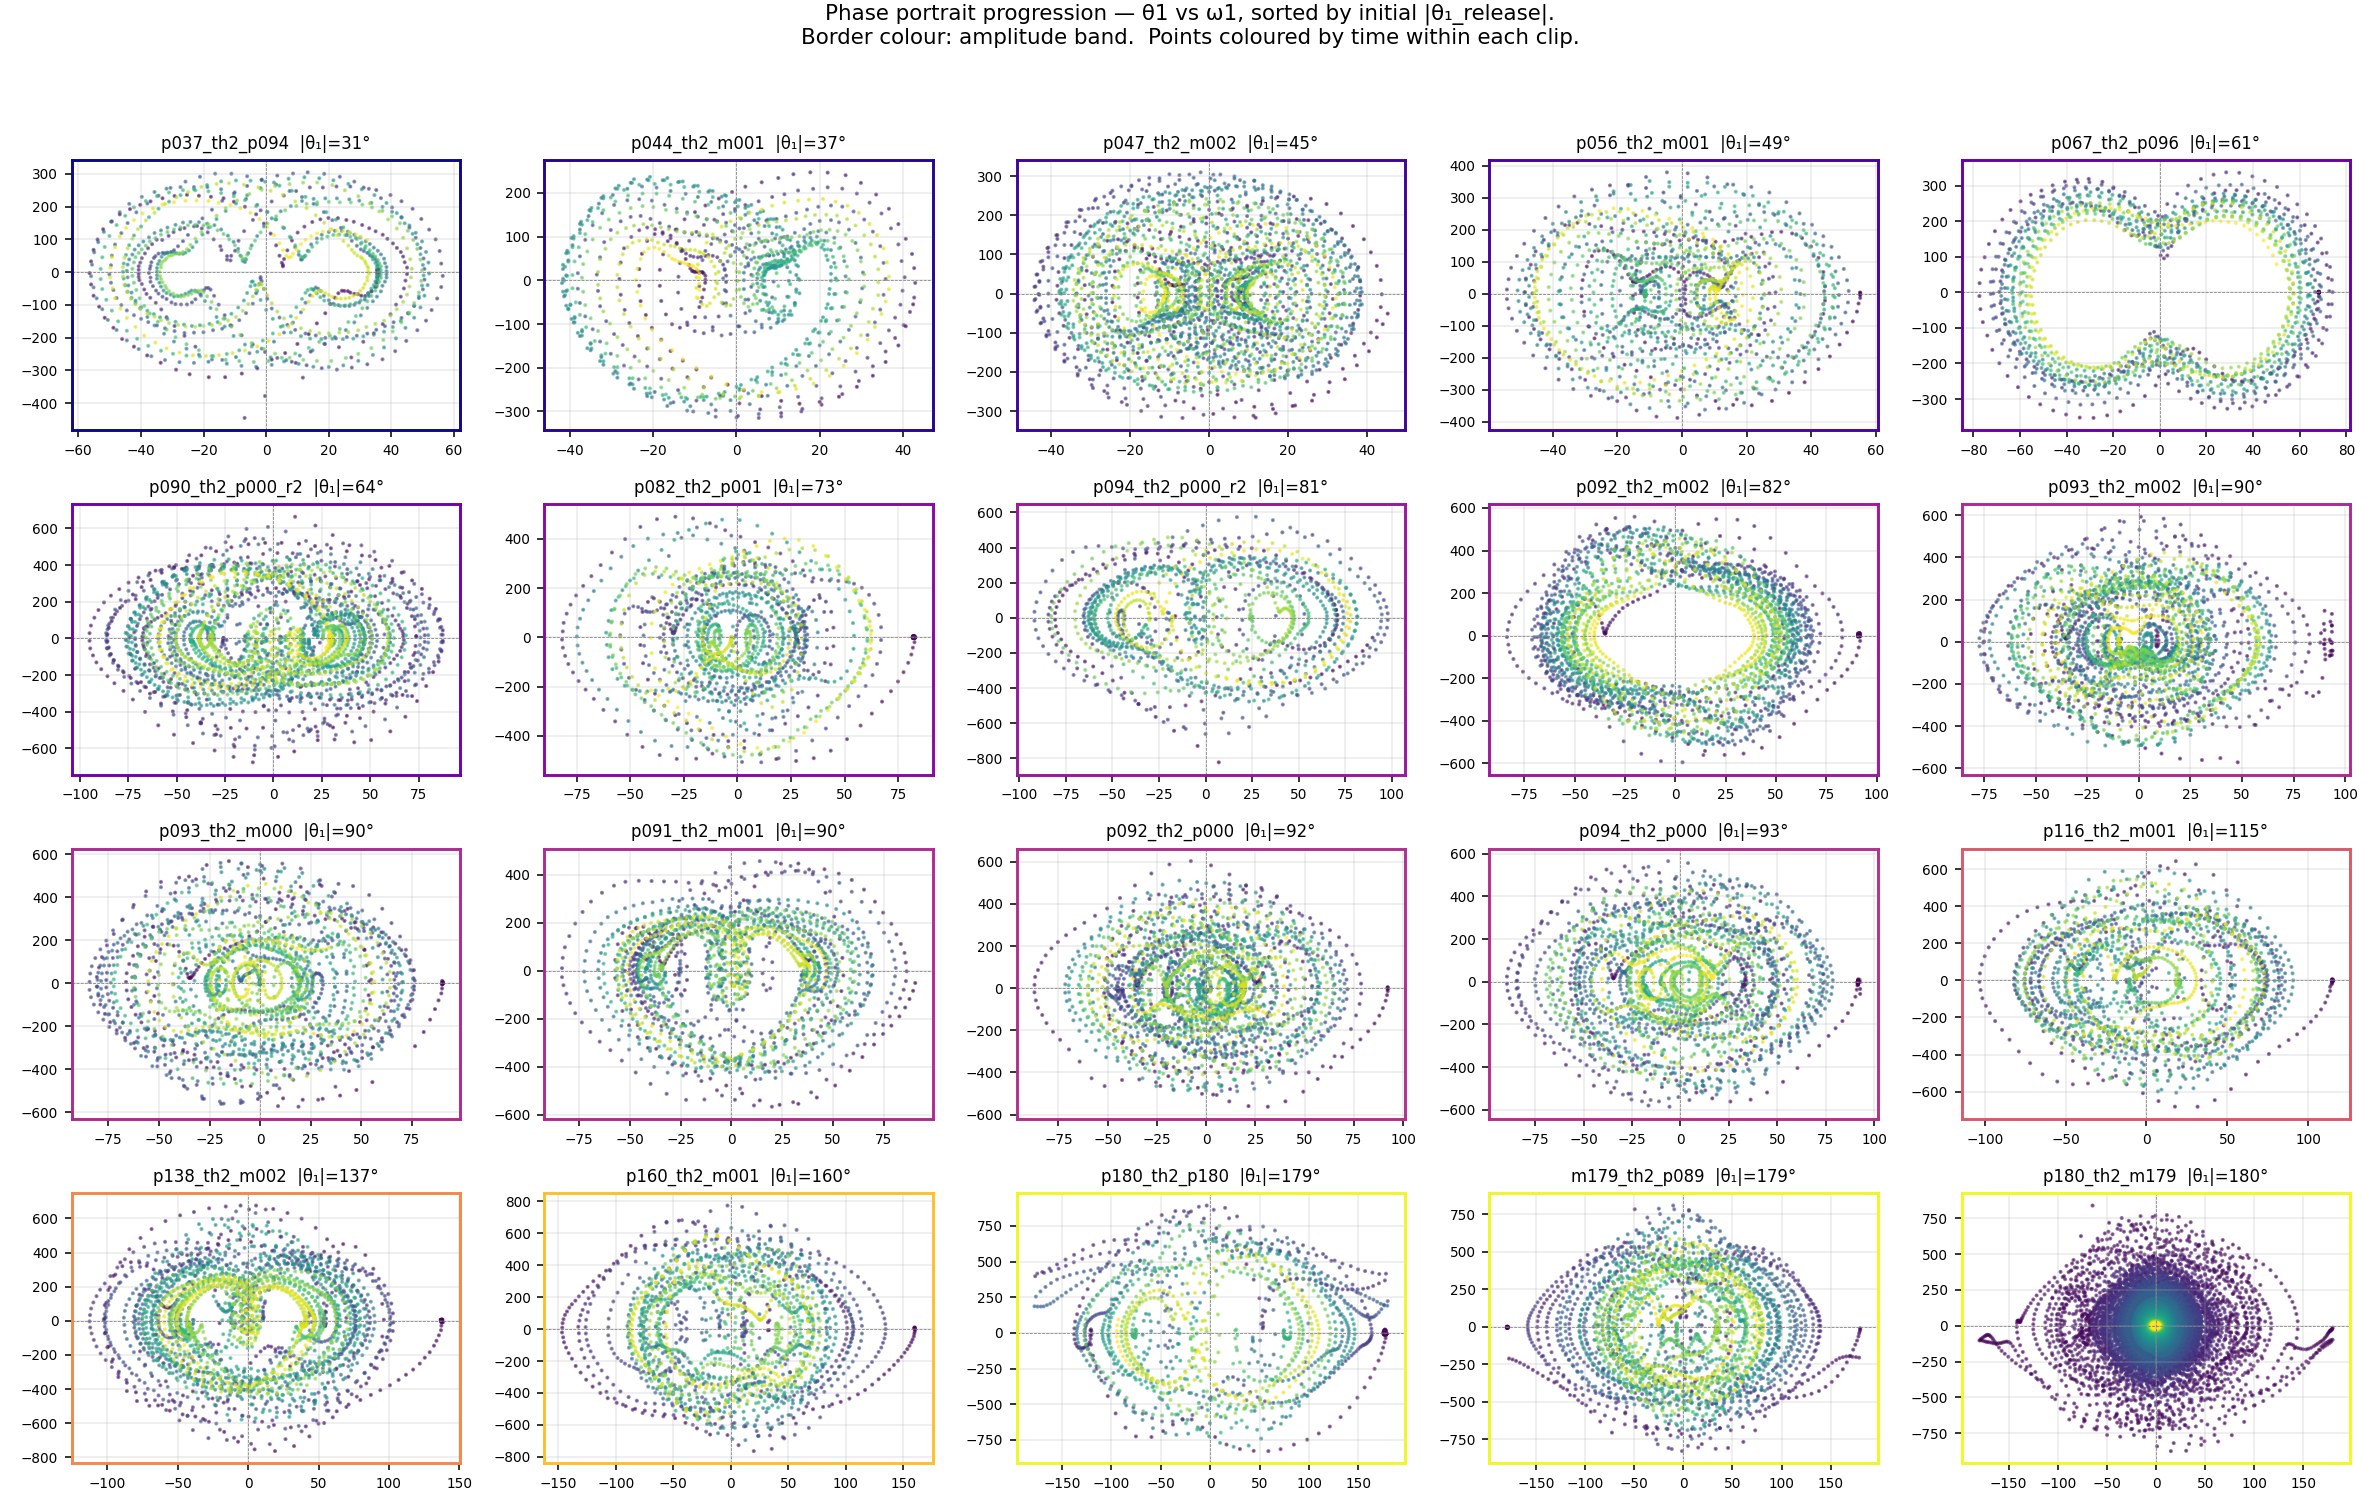
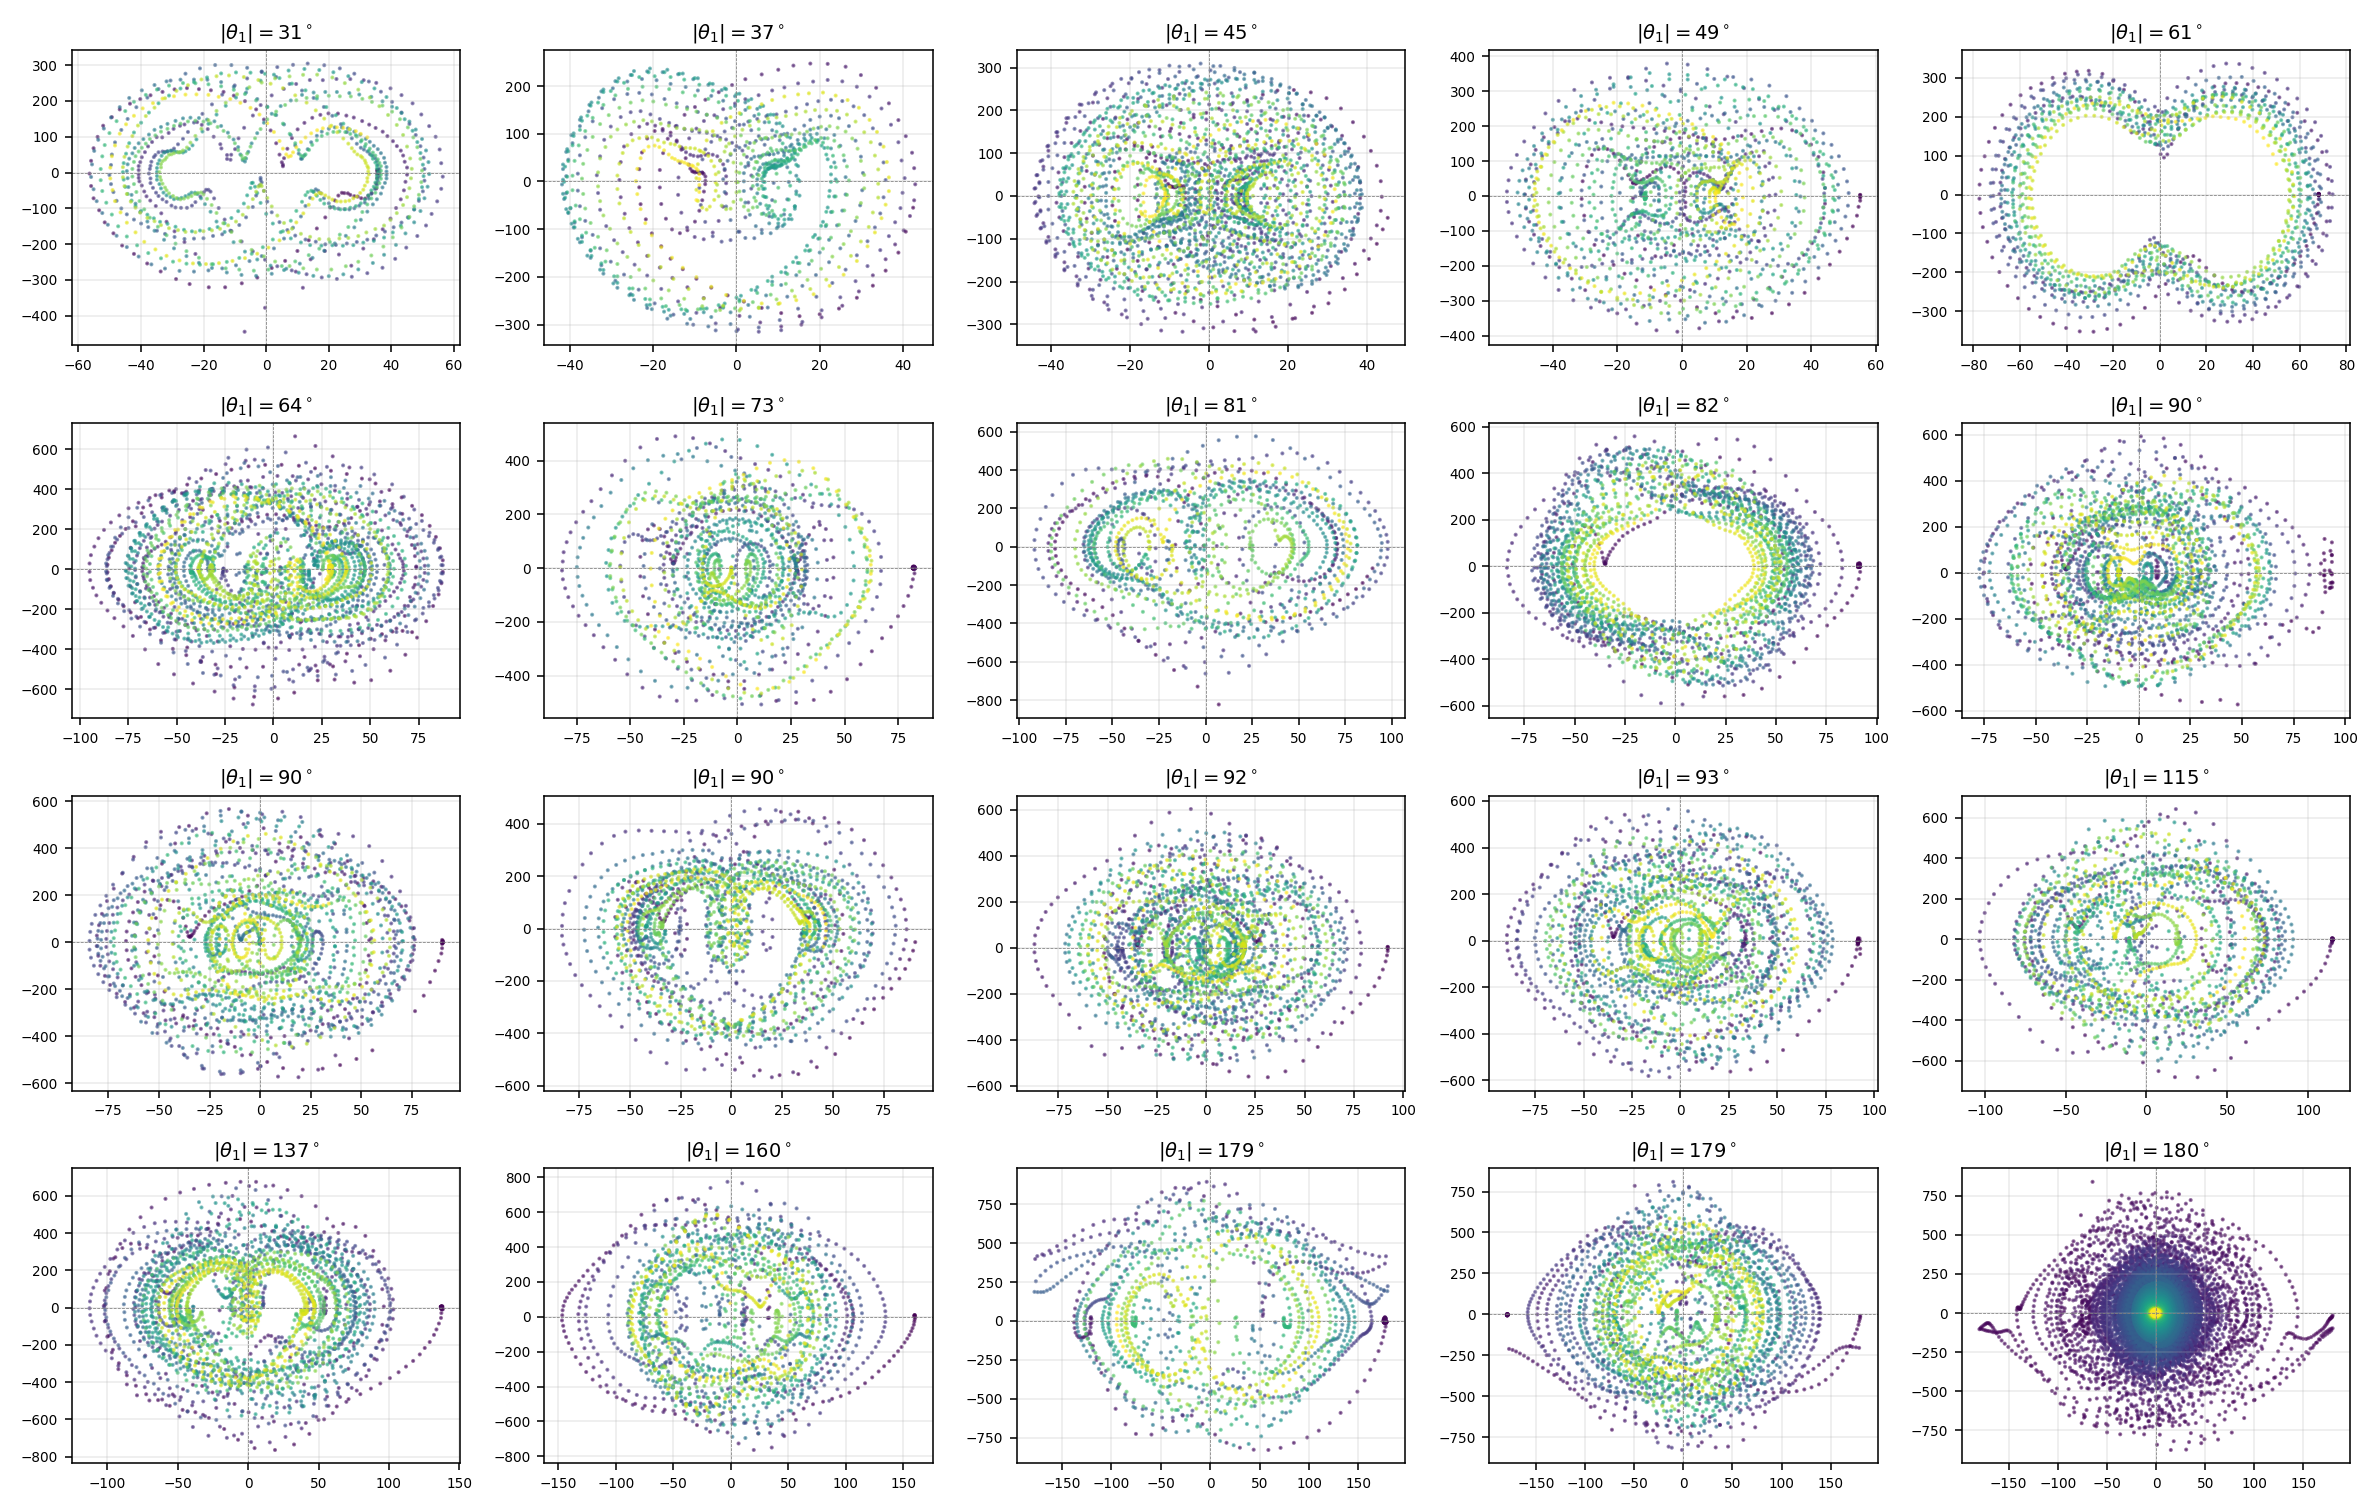
Publication polish: drop suptitles, compact panel titles, match spectrum axes, drop borders, add λ corner annotations
Applies the 8-item polish pass across all 5 focused deliverables +
portrait_progression cleanup:

  1. Drop verbose suptitles from phase_portrait_regimes,
     poincare_regimes, lyapunov_focused, chaos_vs_regular,
     portrait_progression (user will write captions externally)
  2. Compact per-panel titles to one line:
        "Regular  ·  θ₁(0)=37°"           (phase portraits)
        "Regular  ·  θ₁(0)=37°  ·  N=13"  (Poincaré)
  3. Match bottom-row x AND y limits on chaos_vs_regular spectra
     so broadband-vs-sharp-peaks is directly comparable
  4. Remove colored amplitude-band borders from portrait_progression
     panels (already sorted by amplitude, borders were redundant)
  5. Add λ₁ annotation in upper-right corner of each phase-portrait
     and Poincaré ladder panel (boxed monospace), frees title
  6. Standardize on viridis throughout (lyapunov_focused right
     panel was cividis; switched to viridis)
  7. Trim verbose subtitles on lyapunov_focused panels
  8. tight_layout consistently applied

Plus chaos_vs_regular trimmed to t<55s for the chaotic panel
(the actively-chaotic window before friction-driven decay).

All 7 affected figures regenerated; auto-mirror picks them up
in measurements/ready/.

Changed region(s): [[0.0, 0.0, 0.995, 0.9636], [0.5908, 0.6839, 0.6218, 0.7149]]

diff --git a/scripts/analysis/chaos_vs_regular.py b/scripts/analysis/chaos_vs_regular.py
@@ -68,11 +68,16 @@ def load_one(stem):
     }
 
 
-def plot_trace(ax, d, label, t_range=None):
+def plot_trace(ax, d, label, t_max=None):
     topo = d["topo"]
     t  = topo["time_s"] - topo["time_s"][0]
     th = topo["theta2_abs"]
     er = topo["E_ratio_trace"]
+
+    # Truncate to actively-chaotic window if requested
+    if t_max is not None:
+        m = t <= t_max
+        t, th, er = t[m], th[m], er[m]
 
     # Sub-sample for plotting speed if very long
     if len(t) > 8000:
@@ -80,20 +85,12 @@ def plot_trace(ax, d, label, t_range=None):
         t, th, er = t[::stride], th[::stride], er[::stride]
 
     norm = Normalize(vmin=0, vmax=max(1.1, float(np.nanmax(er))))
-    sc = ax.scatter(t, th, c=er, cmap="viridis", norm=norm, s=1.3,
-                     alpha=0.75, edgecolor="none")
-    ax.axhline(+90,  color="#d4724b", lw=0.8, ls="--", alpha=0.7,
-                label=r"$\pm 90^\circ$ inversion")
-    ax.axhline(-90,  color="#d4724b", lw=0.8, ls="--", alpha=0.7)
-    ax.axhline(+180, color="#a02938", lw=0.8, ls="--", alpha=0.7,
-                label=r"$\pm 180^\circ$ fully inverted")
-    ax.axhline(-180, color="#a02938", lw=0.8, ls="--", alpha=0.7)
+    sc = ax.scatter(t, th, c=er, cmap="viridis", norm=norm, s=1.6,
+                     alpha=0.8, edgecolor="none")
     ax.set_xlabel("time from release (s)")
     ax.set_ylabel(r"$\theta_2^{\rm abs}$ (deg)")
     ax.set_title(label, fontsize=11)
     ax.grid(alpha=0.25)
-    if t_range is not None:
-        ax.set_xlim(t_range)
     cb = plt.colorbar(sc, ax=ax, shrink=0.85)
     cb.set_label(r"$E / E_{\rm inversion}$", fontsize=9)
 
@@ -117,32 +114,34 @@ def main():
 
     fig, axes = plt.subplots(2, 2, figsize=(14, 9))
 
-    plot_trace(axes[0, 0], chaotic, "Chaotic   ·   $\\theta_1(0)=180°$  (long recording)")
-    plot_trace(axes[0, 1], regular, "Regular   ·   $\\theta_1(0)=37°$")
+    # Trim the chaotic θ_abs trace to the actively-chaotic window
+    # (after ~55s the long_recording is in low-amplitude bound oscillation).
+    plot_trace(axes[0, 0], chaotic,
+                "Chaotic   ·   $\\theta_1(0)=180°$",
+                t_max=55.0)
+    plot_trace(axes[0, 1], regular,
+                "Regular   ·   $\\theta_1(0)=37°$")
 
-    # Match θ y-axis on the top row so the inversion-threshold story is direct
+    # Match θ y-axis on the top row so the amplitude contrast is direct
     yhi = max(max(abs(y) for y in axes[0, 0].get_ylim()),
                 max(abs(y) for y in axes[0, 1].get_ylim()),
                 200)
     axes[0, 0].set_ylim(-yhi, yhi)
     axes[0, 1].set_ylim(-yhi, yhi)
-    axes[0, 0].legend(loc="lower right", fontsize=8)
 
     plot_spectrum(axes[1, 0], chaotic, "Chaotic — broadband")
     plot_spectrum(axes[1, 1], regular, "Regular — sharp peaks")
 
-    # Same y-range on spectra so power magnitudes are directly comparable
+    # Force matched x AND y limits on the spectra so the broadband-vs-sharp-peaks
+    # comparison is direct (both record lengths/sample counts produce different
+    # native frequency ranges otherwise).
+    xlim_lo = min(axes[1, 0].get_xlim()[0], axes[1, 1].get_xlim()[0])
+    xlim_hi = max(axes[1, 0].get_xlim()[1], axes[1, 1].get_xlim()[1])
     ylim_lo = min(axes[1, 0].get_ylim()[0], axes[1, 1].get_ylim()[0])
     ylim_hi = max(axes[1, 0].get_ylim()[1], axes[1, 1].get_ylim()[1])
-    axes[1, 0].set_ylim(ylim_lo, ylim_hi)
-    axes[1, 1].set_ylim(ylim_lo, ylim_hi)
+    axes[1, 0].set_xlim(xlim_lo, xlim_hi); axes[1, 0].set_ylim(ylim_lo, ylim_hi)
+    axes[1, 1].set_xlim(xlim_lo, xlim_hi); axes[1, 1].set_ylim(ylim_lo, ylim_hi)
 
-    fig.suptitle(
-        "Chaotic vs regular — same diagnostics, two regimes\n"
-        r"top: $\theta_2^{\rm abs}(t)$ ; bottom: power spectrum  ·  "
-        r"$K \rightarrow 1$ chaotic, $K \rightarrow 0$ regular",
-        fontsize=13, y=1.00,
-    )
     fig.tight_layout()
 
     out = aggregate_path("chaos_vs_regular.png")

diff --git a/scripts/analysis/portrait_progression.py b/scripts/analysis/portrait_progression.py
@@ -189,40 +189,23 @@ def main():
     fig, axes = plt.subplots(rows_n, cols,
                              figsize=(3.4 * cols, 2.7 * rows_n),
                              squeeze=False)
-    amps = np.array([r["amplitude"] for r in rows])
-    norm = Normalize(vmin=amps.min(), vmax=amps.max())
-    cmap = plt.cm.plasma
-
     for i, r in enumerate(rows):
         ax = axes[i // cols][i % cols]
-        c = cmap(norm(r["amplitude"]))
         # Colour by time so you see how the trajectory winds.
         ax.scatter(r["th"], r["om"],
                    c=r["t"], cmap="viridis",
                    s=1.2, alpha=0.55)
-        ax.set_title(f"{r['stem'].replace('th1_', '')}  "
-                     f"|θ₁|={r['amplitude']:.0f}°",
-                     fontsize=8.5, color="black")
+        ax.set_title(rf"$|\theta_1|={r['amplitude']:.0f}^\circ$",
+                     fontsize=10, color="black")
         ax.axhline(0, color="gray", lw=0.4, ls="--")
         ax.axvline(0, color="gray", lw=0.4, ls="--")
         ax.tick_params(labelsize=7)
         ax.grid(True, alpha=0.25)
-        # Outline color-codes amplitude band.
-        for spine in ax.spines.values():
-            spine.set_edgecolor(c)
-            spine.set_linewidth(1.5)
 
     for j in range(n, rows_n * cols):
         axes[j // cols][j % cols].axis("off")
 
-    arm_label = f"θ{args.arm}"
-    fig.suptitle(
-        f"Phase portrait progression — {arm_label} vs ω{args.arm}, "
-        f"sorted by initial |θ₁_release|.\n"
-        f"Border colour: amplitude band.  "
-        f"Points coloured by time within each clip.",
-        fontsize=11, y=0.998)
-    plt.tight_layout(rect=[0, 0, 1, 0.97])
+    plt.tight_layout()
     out_path = aggregate_path(f"portrait_progression_arm{args.arm}.png")
     plt.savefig(out_path, dpi=140)
     mirror_to_ready(out_path)

diff --git a/scripts/analysis/lyapunov_focused.py b/scripts/analysis/lyapunov_focused.py
@@ -118,14 +118,13 @@ def main():
                             rf"$\lambda_1$={c['slope']:+.2f}/s")
     ax_l.set_xlabel(r"horizon $k\cdot dt$ (s)")
     ax_l.set_ylabel(r"$\langle \ln d(k) \rangle$")
-    ax_l.set_title("Rosenstein divergence curves (4-amplitude ladder)\n"
-                    "linear stretch = chaos; saturates at system size")
+    ax_l.set_title("Rosenstein divergence curves", fontsize=11)
     ax_l.grid(alpha=0.3)
     ax_l.legend(loc="lower right", fontsize=9)
 
-    # Right scatter
+    # Right scatter — viridis throughout for colormap consistency
     sc = ax_r.scatter(df_clean["amplitude"], df_clean["lambda1"],
-                       c=df_clean["r2"], cmap="cividis", vmin=0.7, vmax=1.0,
+                       c=df_clean["r2"], cmap="viridis", vmin=0.7, vmax=1.0,
                        s=55, edgecolor="black", linewidth=0.4)
     cb = plt.colorbar(sc, ax=ax_r, label=r"fit $R^2$", shrink=0.85)
 
@@ -141,13 +140,10 @@ def main():
     ax_r.axhline(0, color="gray", lw=0.5, linestyle="--", alpha=0.6)
     ax_r.set_xlabel(r"$|\theta_1(0)|$  (deg)")
     ax_r.set_ylabel(r"$\lambda_1$ (Rosenstein)  (1/s)")
-    ax_r.set_title(rf"$\lambda_1$ vs amplitude across {len(df_clean)} clips "
-                    rf"($R^2 \geq {R2_MIN:.1f}$)" "\n"
-                    "trend: more amplitude → more chaos")
+    ax_r.set_title(rf"$\lambda_1$ vs amplitude  ($N$={len(df_clean)},  "
+                    rf"$R^2 \geq {R2_MIN:.1f}$)", fontsize=11)
     ax_r.grid(alpha=0.3)
 
-    fig.suptitle("Largest Lyapunov exponent — focused view",
-                  fontsize=13, y=1.00)
     fig.tight_layout()
 
     out = aggregate_path("lyapunov_focused.png")

diff --git a/scripts/analysis/poincare_regimes.py b/scripts/analysis/poincare_regimes.py
@@ -121,24 +121,23 @@ def main():
 
         amp = d.get("amplitude", float("nan"))
         lam = d.get("lambda1",   float("nan"))
-        r2  = d.get("r2",        float("nan"))
         n   = len(df)
-        title_lines = [d["label"]]
-        title_lines.append(rf"$\theta_1(0)={amp:.0f}^\circ$    $N$={n}")
+        # Compact one-line title: regime · amplitude · N crossings
+        ax.set_title(rf"{d['label']}  ·  $\theta_1(0)={amp:.0f}^\circ$  ·  $N$={n}",
+                     fontsize=11)
+        # λ annotation in upper-right corner
         if not np.isnan(lam):
-            title_lines.append(rf"$\lambda_1={lam:+.2f}$/s    $R^2$={r2:.2f}")
-        ax.set_title("\n".join(title_lines), fontsize=11)
+            ax.text(0.97, 0.97, rf"$\lambda_1={lam:+.2f}$/s",
+                    transform=ax.transAxes, ha="right", va="top",
+                    fontsize=10, family="monospace",
+                    bbox=dict(boxstyle="round,pad=0.3",
+                              facecolor="white", alpha=0.8,
+                              edgecolor="lightgray"))
 
     # Y-axis label only on the left column
     axes[0, 0].set_ylabel(r"$\omega_1$ at section (deg/s)")
     axes[1, 0].set_ylabel(r"$\omega_1$ at section (deg/s)")
 
-    fig.suptitle(
-        "Poincaré sections across the periodic→chaotic transition\n"
-        r"section: $\theta_1+\theta_2=0$ (upward)  ·  "
-        "color = time of crossing",
-        fontsize=13, y=0.99
-    )
     fig.tight_layout()
 
     if args.show:

diff --git a/scripts/analysis/phase_portrait_regimes.py b/scripts/analysis/phase_portrait_regimes.py
@@ -145,22 +145,21 @@ def main():
 
         amp = d.get("amplitude", float("nan"))
         lam = d.get("lambda1",   float("nan"))
-        r2  = d.get("r2",        float("nan"))
-        title_lines = [d["label"], rf"$\theta_1(0)={amp:.0f}^\circ$"]
+        # Compact one-line title: regime · amplitude
+        ax.set_title(rf"{d['label']}  ·  $\theta_1(0)={amp:.0f}^\circ$",
+                     fontsize=11)
+        # λ annotation in upper-right corner
         if not np.isnan(lam):
-            title_lines.append(rf"$\lambda_1={lam:+.2f}$/s    $R^2$={r2:.2f}")
-        ax.set_title("\n".join(title_lines), fontsize=11)
+            ax.text(0.97, 0.97, rf"$\lambda_1={lam:+.2f}$/s",
+                    transform=ax.transAxes, ha="right", va="top",
+                    fontsize=10, family="monospace",
+                    bbox=dict(boxstyle="round,pad=0.3",
+                              facecolor="white", alpha=0.8,
+                              edgecolor="lightgray"))
 
     axes[0, 0].set_ylabel(rf"$\omega_{arm}$ (deg/s)")
     axes[1, 0].set_ylabel(rf"$\omega_{arm}$ (deg/s)")
 
-    arm_label = f"arm {arm}"
-    fig.suptitle(
-        f"Phase portraits across the periodic→chaotic transition  ·  {arm_label}\n"
-        rf"$(\theta_{arm}, \omega_{arm})$ projection of the free-swing trajectory  ·  "
-        "color = time",
-        fontsize=13, y=0.99
-    )
     fig.tight_layout()
 
     if args.show:
